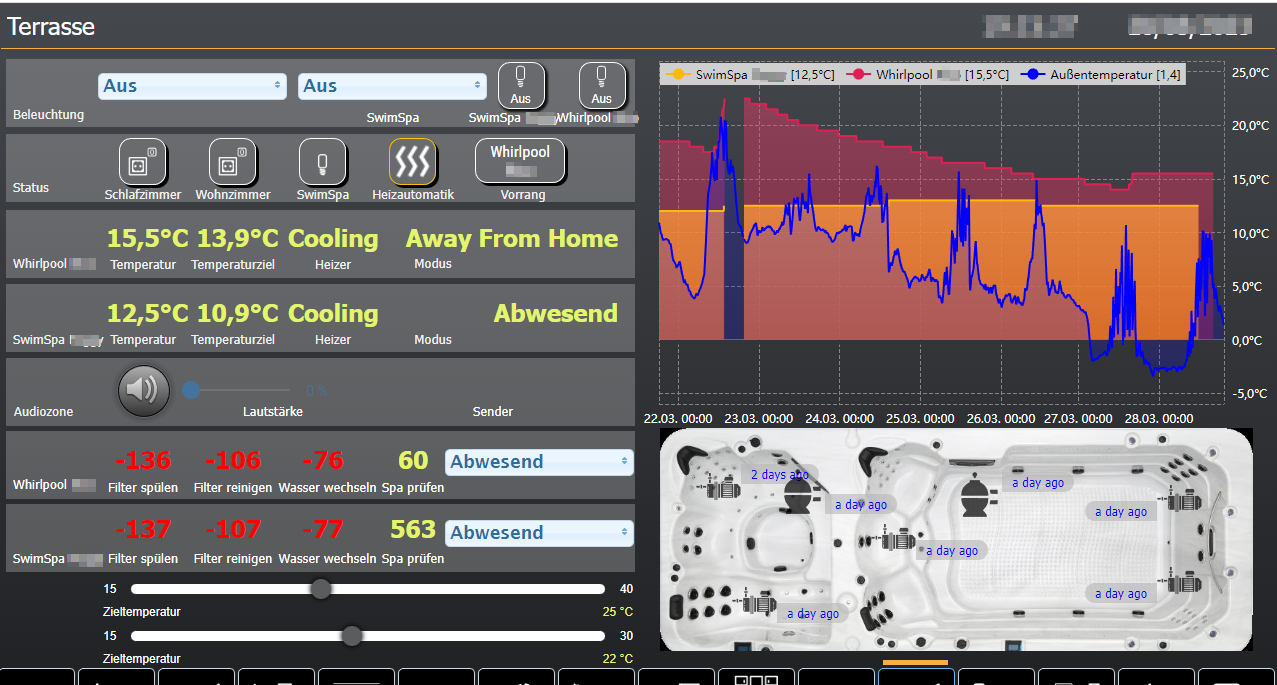
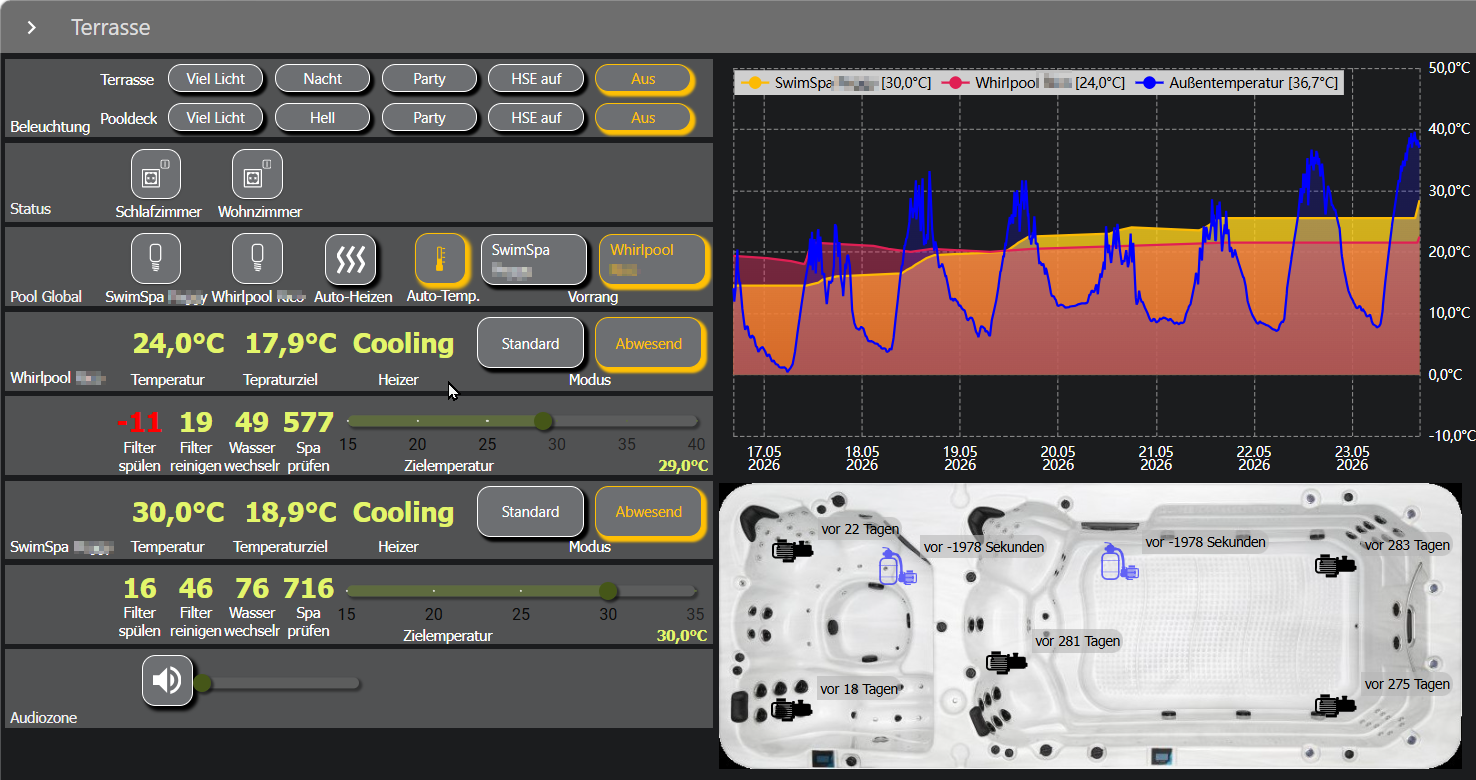
updated error handling in javascript files, modified detection of blower, updated documentation and added new images for visualization example

diff --git a/JavaScript/SpaUpdateConfig.js b/JavaScript/SpaUpdateConfig.js
@@ -1,9 +1,9 @@
 // Achtung dieses Script benötigt: SpaGlobal.js im Ordner global (Expert Mode!)
 // Es muss initial 1x aufgerufen werden, danach sollte es aller 6h laufen, es werden eher selten geänderte Konfigurationswerte aktualisiert
 
-schedule("0 */6 * * *", function () {
-    updateSpaConfig();
-});
+//schedule("0 */6 * * *", function () {
+//    updateSpaConfig();
+//});
 
 updateSpaConfig();
 
@@ -122,6 +122,8 @@ async function updateSpaConfig() {
                 await execPythonAsync(discoverCommand);
             }
         }
+    } catch(err) {
+        console.error('*** command failed with error code: ' + err.code + " - " + err.message);
     } finally {
         // signal that there is no longer a script is running
         setState(dpBasePath + '.scriptRunning', {val: false, ack: true});

diff --git a/JavaScript/global/SpaGlobal.js b/JavaScript/global/SpaGlobal.js
@@ -1,17 +1,14 @@
 // Pfade für die Datenpunkablage
 const BASE_ADAPTER = "javascript.0";
 const BASE_FOLDER = "Datenpunkte.SwimSpa";
-// const SPA_EXECUTEABLE = "python3"
-const SPA_EXECUTEABLE = "/home/tom/.pyenv/shims/python3"
-//const PY_SCRIPTS_FOLDER = "/SpaController"
-const PY_SCRIPTS_FOLDER = "/home/SwimSpa/Python"
+const SPA_EXECUTEABLE = "python3"
+const PY_SCRIPTS_FOLDER = "/SpaController"
 
 function execPythonAsync(command) {
     return new Promise((resolve, reject) => {
         exec(command, function (error, stdout, stderr) {
             //console.log('*** stdout: ' + stdout);
             if (error) {
-                console.error('*** command failed with error code: ' + error.code + " - " + error.message);
                 reject(error);
                 return;
             }

diff --git a/JavaScript/BlowerSwitch.js b/JavaScript/BlowerSwitch.js
@@ -62,6 +62,8 @@ async function switchBlower(obj) {
 
     try {
         await execPythonAsync(switchBlowerCommand);
+    } catch(err) {
+        console.error('*** command failed with error code: ' + err.code + " - " + err.message);
     } finally {
         // signal that there is no longer a script running
         setState(dpBasePath + '.scriptRunning', {val: false, ack: true});

diff --git a/JavaScript/LightToggle.js b/JavaScript/LightToggle.js
@@ -67,6 +67,8 @@ async function toggleLight(obj) {
 
     try {
         await execPythonAsync(toggleLightCommand);
+    } catch(err) {
+        console.error('*** command failed with error code: ' + err.code + " - " + err.message);
     } finally {
         // signal that there is no longer a script is running
         setState(dpBasePath + '.scriptRunning', {val: false, ack: true});

diff --git a/JavaScript/PumpSwitches.js b/JavaScript/PumpSwitches.js
@@ -69,6 +69,8 @@ async function switchPump(obj) {
 
     try {
         await execPythonAsync(switchPumpCommand);
+    } catch(err) {
+        console.error('*** command failed with error code: ' + err.code + " - " + err.message);
     } finally {
         // signal that there is no longer a script is running
         setState(dpBasePath + '.scriptRunning', {val: false, ack: true});

diff --git a/JavaScript/SpaUpdateValues.js b/JavaScript/SpaUpdateValues.js
@@ -80,6 +80,8 @@ async function updateSpaValues() {
 
     try {
         await execPythonAsync(updateCommand);
+    } catch(err) {
+        console.error('*** command failed with error code: ' + err.code + " - " + err.message);
     } finally {
         // signal that there is no longer a script is running
         setState(dpBasePath + '.scriptRunning', {val: false, ack: true});

diff --git a/JavaScript/SpaVariablen.js b/JavaScript/SpaVariablen.js
@@ -6,7 +6,7 @@
 //   waterfall: Wasserfall vorhanden (true/false)
 createDatapoints([
     { pumps: 3, blower: false, waterfall: false },   // 0: Pool
-    { pumps: 1, blower: true, waterfall: false }     // 1: Spa
+    { pumps: 3, blower: true, waterfall: false }     // 1: Spa
 ]);
 
 

diff --git a/JavaScript/TargetTemp.js b/JavaScript/TargetTemp.js
@@ -63,6 +63,8 @@ async function setTargetTemp(obj) {
 
     try {
         await execPythonAsync(targetTempCommand);
+    } catch(err) {
+        console.error('*** command failed with error code: ' + err.code + " - " + err.message);
     } finally {
         // signal that there is no longer a script is running
         setState(dpBasePath + '.scriptRunning', {val: false, ack: true});

diff --git a/JavaScript/WatercareMode.js b/JavaScript/WatercareMode.js
@@ -65,6 +65,8 @@ async function setWatercareMode(obj) {
 
     try {
         await execPythonAsync(watercareModeCommand);
+    } catch(err) {
+        console.error('*** command failed with error code: ' + err.code + " - " + err.message);
     } finally {
         // signal that there is no longer a script is running
         setState(dpBasePath + '.scriptRunning', {val: false, ack: true});

diff --git a/Python/spa_config.py b/Python/spa_config.py
@@ -16,7 +16,7 @@ class ExitCode(IntEnum):
     IOBROKER_RESPONSE_ERROR = 6
 
 
-VERSION = "0.3.5"
+VERSION = "0.3.6"
 print(f"{sys.argv[0]} Version: {VERSION}")
 
 # Anzahl Argumente prüfen
@@ -150,6 +150,9 @@ async def main() -> int:
                 sJson2Send = sJson2Send + "{}.{}.Pumpen.{}.Modi={}".format(IOB_DP_BASE_PATH, ioBrDeviceNum, pump.key, urllib.parse.quote(str(pump.modes))) + "&"
             #
             print(f"anzahl blowers: {len(spaman.facade.blowers)}")
+            for blower in spaman.facade.blowers:
+                print(f"blower key {blower.key}, name {blower.name}")
+                sJson2Send = sJson2Send + "{}.{}.Blower.{}.Name={}".format(IOB_DP_BASE_PATH, ioBrDeviceNum, blower.key, urllib.parse.quote(blower.name)) + "&"
             #
             print(f"anzahl lichter: {len(spaman.facade.lights)}")
             for light in spaman.facade.lights:

diff --git a/README.md b/README.md
@@ -1,17 +1,10 @@
 <!-- TOC depthfrom:2 -->
 
-Das ist ein Fork von https://github.com/rrov1/SwimSpa
-Wurde hier nur um 2 Features erweitert:
-- Manche gecko Whirlpools haben nicht nur Pumpen sondern auch ein Geblaese -> um Switch Blower Funktion erweitert, die auch von geckolib unterstützt wird
-- Möglichkeit bei der Steuerung von mehr als einem Pool, pro Pool eine unterschiedliche Anzahl von Pumpen und Gebläse zu konfigurieren
-
-Der Rest ist eine Kopie von rrov1
-  
 - [1. Funktionsumfang](#1-funktionsumfang)
 - [2. Installation/Update](#2-installationupdate)
     - [2.1. gazoodle/geckolib github](#21-gazoodlegeckolib-github)
     - [2.2. Python Skripte](#22-python-skripte)
-    - [2.3. Javascript Skripte für ioBroker](#23-javascript-skripte-f%C3%BCr-iobroker)
+    - [2.3. JavaScript Skripte für ioBroker](#23-javascript-skripte-f%C3%BCr-iobroker)
         - [2.3.1. Voraussetzungen](#231-voraussetzungen)
         - [2.3.2. Schritt 1: Skript SpaGlobal.js bereitstellen](#232-schritt-1-skript-spaglobaljs-bereitstellen)
         - [2.3.3. Schritt 2: Erstellen bzw. Aktualisieren der Datenpunkte](#233-schritt-2-erstellen-bzw-aktualisieren-der-datenpunkte)
@@ -31,9 +24,10 @@ Der Rest ist eine Kopie von rrov1
 
 * [X] Unterstützung mehrere Spa Controller
 * [X] Bereitstellen von Datenpunkten mit der Konfiguration des Spa Controllers
-* [X] Bereistellen von Datenpunkten mit aktuellen Laufzeitinformationen (z.B. Temperatur usw.)
+* [X] Bereitstellen von Datenpunkten mit aktuellen Laufzeitinformationen (z.B. Temperatur usw.)
 * [X] Schalten der Pumpen
 * [X] Schalten der Beleuchtung
+* [X] Schalten des Gebläses
 * [X] Einstellen der Zieltemperatur
 * [X] Einstellen des Wasserpflegemodus
 * [X] Erinnerungen
@@ -44,14 +38,14 @@ Der Rest ist eine Kopie von rrov1
 Hier auf Github werden 2 Arten von Skripten bereitgestellt:
 
 1. Python-Skripte im Ordner: [Pyhton](Python), über die das geckolib API angesprochen wird
-2. Javascript-Skripte im Ordner: [Javascript](JavaScript), welche im Javascript Adapter angelegt werden müssen
+2. JavaScript-Skripte im Ordner: [Javascript](JavaScript), welche im JavaScript Adapter angelegt werden müssen
 
 ### 2.1. gazoodle/geckolib (github)
 
 Quelle: [https://github.com/gazoodle/geckolib](https://github.com/gazoodle/geckolib)
 
 Voraussetzung zur Installation: **Python3 mind. v3.13** & **Pip** (am besten unter einem Linux, nur Versionen die unter [Support](https://devguide.python.org/versions/) sind)<br>
-**Wichtig:** Die geckolib ab v1.0.0 benötigt Python 3.13 (Abhängigkeit). Unbedingt prüfen, denn diese Version enthält Änderungen die nicht mit vorherigen Versionen kompatibel sind. Diese Scripte unterstützen **nur** noch geckolib ab v1.0.0 und damit muss Python 3.13 installiert sein.
+**Wichtig:** Die geckolib ab v1.0.0 benötigt Python 3.13 (Abhängigkeit). Unbedingt prüfen, denn diese Version enthält Änderungen die nicht mit vorherigen Versionen kompatibel sind. Diese Skripte unterstützen **nur** noch geckolib ab v1.0.0 und damit muss Python 3.13 installiert sein.
 
 Installation: `sudo pip install geckolib`<br>
 Update: `sudo pip install geckolib --upgrade`<br>
@@ -64,7 +58,7 @@ Für die Python-Skripte sind noch folgende Bibliotheken bereitzustellen:
 
 * requests: `sudo pip3 install requests`
 
-Alle Python Skripte aus dem Repository (Ordner: [Python](Python)) müssen in einem Verzeichnis bereitgestellt werden. Im Beispiel nutzen wir jetzt direkt einen Order unterhalb `/`, clonen das Github Repo und kompieren die Dateien aus dem Ordner Python ans eigentliche Ziel. Danach wird noch der owner angepasst.
+Alle Python Skripte aus dem Repository (Ordner: [Python](Python)) müssen in einem Verzeichnis bereitgestellt werden. Im Beispiel nutzen wir jetzt direkt einen Order unterhalb `/`, clonen das Github Repo und kopieren die Dateien aus dem Ordner Python ans eigentliche Ziel. Danach wird noch der owner angepasst.
 
 ```
 ~$ sudo mkdir /SpaController
@@ -90,17 +84,17 @@ drwxr-xr-x 23 root     root     4096 Apr  2 11:37 ..
 -rw-r--r--  1 iobroker iobroker 7566 Apr  2 11:51 spa_updateBulk.py
 ```
 
-Die Python-Skripte werden von den Javascript-Skripten aus aufgerufen mit den nötigen Parametern.<br>
+Die Python-Skripte werden von den JavaScript-Skripten aus aufgerufen mit den nötigen Parametern.<br>
 
 **Wichtig:** ioBroker benötigt Zugriff auf die Python-Skripte, der Ablageort kann z.B. auch `/opt/iobroker/node_modules/iobroker.javascript` sein, das könnte allerdings mal Probleme mit Adapter oder ioBroker Updates geben.
 
-### 2.3. Javascript Skripte für ioBroker
+### 2.3. JavaScript Skripte für ioBroker
 
 #### 2.3.1. Voraussetzungen
 
 * Adapter: "Simple RESTful API" installiert und eine konfigurierte Instanz am laufen (bitte prüfen, dass die IP in der Instanzkonfiguration passend eingestellt ist, getestet sind die Skripte mit IPv4, egal ob 0.0.0.0 oder die IP des Netzwerkadapters)
-* Adapter: Javascript/Blockly installiert und eine Instanz am laufen
-* Konfiguration des Javascript Adapters anpassen:
+* Adapter: JavaScript/Blockly installiert und eine Instanz am laufen
+* Konfiguration des JavaScript Adapters anpassen:
   * Option: Enable Command "setObject" - ist aktiviert
   * Option: Enable Command "exec" - ist aktiviert
 
@@ -112,25 +106,37 @@ Die Python-Skripte werden von den Javascript-Skripten aus aufgerufen mit den nö
 
 | **Variable**        | **Verwendungszweck/Wert**                                                                                                    |
 | --------------------- | ------------------------------------------------------------------------------------------------------------------------------ |
-| `BASE_ADAPTER`      | Basispfad zum Adapter unter dem die Datenpunkte angelegt werden. Standard ist der erste Javascript Adapter: "javascript.0".  |
+| `BASE_ADAPTER`      | Basispfad zum Adapter unter dem die Datenpunkte angelegt werden. Standard ist der erste JavaScript Adapter: "javascript.0".  |
 | `BASE_FOLDER`       | Basispfad unter dem die Datenpunkte angelegt werden sollen, Standardwert ist: "Datenpunkte.SwimSpa"                          |
 | `SPA_EXECUTEABLE`   | Auszuführendes Programm, Standard ist "python3"                                                                             |
-| `PY_SCRIPTS_FOLDER` | Verzeichnis in dem sich die Python-Skripte befinden. Standard ist`/SpaController` damit das mit der Anleitung zusammenpasst. |
+| `PY_SCRIPTS_FOLDER` | Verzeichnis in dem sich die Python-Skripte befinden. Standard ist`/SpaController`, damit das mit der Anleitung zusammenpasst. |
 
 #### 2.3.3. Schritt 2: Erstellen bzw. Aktualisieren der Datenpunkte
 
-* Neuen Ordner `Spa` im Javascript Adapter anlegen um alle folgenden Skripte an einen Ort zu abzulegen
-* Neues Skript `SpaVariablen` in diesem Ordner anlegen und den Inahlt von [SpaVariablen.js](JavaScript/SpaVariablen.js) einspielen
-* den Aufruf der Funktion createDatapoints() anpassen:
-
-
+* Neuen Ordner `Spa` im JavaScript Adapter anlegen, um alle folgenden Skripte an einen Ort zu abzulegen
+* Neues Skript `SpaVariablen` in diesem Ordner anlegen und den Inhalt von [SpaVariablen.js](JavaScript/SpaVariablen.js) einspielen
+* den Aufruf der Funktion createDatapoints() anpassen, welcher im Standard zur Steuerung von 2 Spa Controllern ausgelegt ist:
+  ```
+  createDatapoints([
+      { pumps: 3, blower: false, waterfall: false },   // 0: Pool
+      { pumps: 3, blower: true, waterfall: false }     // 1: Spa
+  ]);
+  ```
+* Die Funktion nimmt als Parameter ein Array entgegen, welches pro Spa Controller eine individuelle Konfiguration der Anzahl von Pumpen zulässt, sowie Gebläse und Wasserfall.
+* Beschreibung der Parameter pro Spa Controller
 | **Parameter** | **Wert**                                       |
 | --------------- | ------------------------------------------------ |
 | 1             | Anzahl Spa Controller im Netz, typ. Weise: 1   |
 | 2             | Anzahl Pumpen pro Spa Controller, typ. Weise 3 |
-| 3             | Datenpukte für Wasserfall mit anlegen         |
+| 3             | Datenpunkte für Wasserfall mit anlegen         |
+* Im einfachsten Fall (1 Spa Controller, 3 Pumpen) muss folgender Quelltext genutzt werden:
+  ```
+  createDatapoints([
+      { pumps: 3, blower: false, waterfall: false }   // 0: Spa
+  ]);
+  ```
 
-* Nach dem Speichern, das Script 1x ausführen
+* Nach dem Speichern, das Skript 1x ausführen
 * Prüfen ob die Datenpunkte vorhanden sind, der Objektbau sollte so aussehen:
   ![Datenpunkte im Objektbaum](doc/img/Datenpunkte_im_Objektbaum.png)
 
@@ -139,13 +145,13 @@ Die Python-Skripte werden von den Javascript-Skripten aus aufgerufen mit den nö
 Konfigurationswerte, die sich seltener ändern werden alle 6h von `SpaUpdateConfig` aktualisiert:
 
 * Neues Skript: `SpaUpdateConfig` im Ordner `Spa` erstellen und den Inhalt von [SpaUpdateConfig.js](JavaScript/SpaUpdateConfig.js) einfügen
-* Die Javascript Funktion: `updateSpaConfig()` wird beim speichern 1x ausgeführt, danach aller 6h.
-* Jetzt prüfen ob die Datenpunkte die eher statische Konfigurationswerte darstellen, wie (z.B.: Temepratureinheit, ID, U_ID) aktualisiert worden sind
+* Die JavaScript Funktion: `updateSpaConfig()` wird beim speichern 1x ausgeführt, danach aller 6h.
+* Jetzt prüfen ob die Datenpunkte die eher statische Konfigurationswerte darstellen, wie (z.B.: Temperatureinheit, ID, U_ID) aktualisiert worden sind
 
 <br> 
 Werte die sich häufig ändern werden minütlich von `SpaUpdateValues` aktualisiert:
 
-* Neues Skcript: `SpaUpdateValues` im Ordner `Spa` erstellen und den Inhalt von [SpaUpdateValues.js](JavaScript/SpaUpdateValues.js) einfügen
+* Neues Skript: `SpaUpdateValues` im Ordner `Spa` erstellen und den Inhalt von [SpaUpdateValues.js](JavaScript/SpaUpdateValues.js) einfügen
 * Das Skript wird minütlich aufgerufen und aktualisiert alle anderen Werte wie z.B. die Wassertemperaturen, Pumpenstatus, Licht usw.
 * Jetzt überprüfen, on die Wassertemperatur aktualisiert wurde
 
@@ -155,10 +161,11 @@ Werte die sich häufig ändern werden minütlich von `SpaUpdateValues` aktualisi
 * Skripte bereitstellen:
 
 
-| **Zweck**                                   | **Javascript**                                                                       | **Python Skript**                                                               |
+| **Zweck**                                   | **JavaScript**                                                                       | **Python Skript**                                                               |
 | --------------------------------------------- | -------------------------------------------------------------------------------------- | --------------------------------------------------------------------------------- |
 | Schalten der Pumpen                         | `PumpSwitches` (Datei: [PumpSwitches.js](JavaScript/PumpSwitches.js))                | `spa_switchPump.py clientId restApiUrl spaId spaIP pumpId newPumpState pumpChannel`   |
-| Schalten der Beleuchtung                    | `LightToggle` (Datei: [LightToggle.js](JavaScript/LightToggle.js))                   | `spa_toggleLight.py clientId restApiUrl spaId spaIP lightKey lightChannel`            |
+| Schalten der Beleuchtung                    | `LightToggle` (Datei: [LightToggle.js](JavaScript/LightToggle.js))                   | `spa_toggleLight.py clientId restApiUrl spaId spaIP lightKey lightChannel lightChannel`            |
+| Schalten des Gebläse                        | `BlowerToggle` (Datei: [BlowerSwitch.js](JavaScript/BlowerSwitch.js))                   | `spa_switchBlower.py clientId restApiUrl spaId spaIP blowerKey newBlowerState blowerChannel`            |
 | Setzen der Zieltemperatur                   | `TargetTemp` (Datei: [TargetTemp.js](JavaScript/TargetTemp.js))                      | `spa_setTargetTemp.py clientId restApiUrl spaId spaIP targetTemp targetTempDatapoint` |
 | Setzen des Wasserpflegemodus                | `WatercareMode` (Datei: [WatercareMode.js](JavaScript/WatercareMode.js))             | `spa_setWatercareMode.py clientId restApiUrl spaId spaIP waterCareModeIdx devicePath`          |
 | Automaische Nachführung der Zieltemperatur | `SpaMoveTargetTemp` (Datei: [SpaMoveTargetTemp.js](JavaScript/SpaMoveTargetTemp.js)) | nicht benötigt                                                                 |
@@ -169,7 +176,7 @@ Werte die sich häufig ändern werden minütlich von `SpaUpdateValues` aktualisi
 
 ### 3.1. SpaUpdateValues.js/spa_updateBulk.py
 
-Diese Skripte werden jede Minute gestartet (Zeile 4 in `SpaUpdateValues.js`) um Änderungen von Werten wie z.B. der Wassertemperatur, Pumpenstatus usw. vom SpaController auszulesen. Von den 1.440 Aufrufen pro Tag schlagen bei mir lt. Protokoll: ~50 Aufrufe fehl. Eine Quote so in der Höhe, vielleicht bis zu 200 je Tag, kann als normal betrachtet werden. Das hängt u.a. damit zusammen wie die geckolib mit dem SpaController kommuniziert, dann natürlich das minütliche pollen, vielleicht noch die App die parallel was tut, leider jenseits von perfekt von der Implementierung her :-(.
+Diese Skripte werden jede Minute gestartet (Zeile 4 in `SpaUpdateValues.js`), um Änderungen von Werten wie z.B. der Wassertemperatur, Pumpenstatus usw. vom SpaController auszulesen. Von den 1.440 Aufrufen pro Tag schlagen bei mir lt. Protokoll: ~50 Aufrufe fehl. Eine Quote so in der Höhe, vielleicht bis zu 200 je Tag, kann als normal betrachtet werden. Das hängt u.a. damit zusammen wie die geckolib mit dem SpaController kommuniziert, dann natürlich das minütliche Pollen, vielleicht noch die App die parallel was tut, leider jenseits von perfekt von der Implementierung her :-(.
 
 ### 3.2. Kein SpaController gefunden, wenn ioBroker im Docker Container läuft
 
@@ -178,7 +185,7 @@ Dieser Datenpunkt kann auch verwendet werden, wenn sich die SpaController in ein
 
 ### 3.3. SpaController Überwachung/Steuerung temporär deaktivieren
 
-Manchmal ist es notwendig einen SpaController temporär aus der Überwachung bzw. Steuerung durch die Skripte auszulassen. Um nicht alle Skripte manuell zu deaktivieren gibt es einen Datenpunkt: `javascript.0.Datenpunkte.SwimSpa.x.ControllerEnabled` pro SpaController. Dieser ist stnadardmäßig auf `true` und kann bei Bedarf auf `false`gesetzt werden.
+Manchmal ist es notwendig einen SpaController temporär aus der Überwachung bzw. Steuerung durch die Skripte auszulassen. Um nicht alle Skripte manuell zu deaktivieren gibt es einen Datenpunkt: `javascript.0.Datenpunkte.SwimSpa.x.ControllerEnabled` pro SpaController. Dieser ist standardmäßig auf `true` und kann bei Bedarf auf `false`gesetzt werden.
 
 **Hinweis:** Zusätzlich sollte noch die Steuerung in der Visualisierung deaktiviert werden.
 
@@ -194,15 +201,15 @@ Manchmal ist es notwendig einen SpaController temporär aus der Überwachung bzw
 * [X] Statt cron soll der regelmäßige Aufruf mit ioBroker Schedule möglich sein
 * [X] Status der Erreichbarkeit des Spa in Datenpunkt darstellen (Ebene Netzwerk, Online/Offline), sowie Fehler bei letzten Kommando
 * [ ] Richtiges Discovery der Eigenschaften des Spa Controllers anstatt feste Anlage der Datenpunkte via Skript
-* [X] Das setzen der Zieltemperatur ist empfindlich ggü. mehreren schnell auseinanderfolgenden Wertänderungen. Momentan am besten einen Slider nutzen, der eine Funktion "Update value on release" untersützt, so dass der DP nur einmal geändert wird. Das Script braucht immer ein paar Sekunden bis der Wert im Hintergrund gesetzt wurde.
+* [X] Das setzen der Zieltemperatur ist empfindlich ggü. mehreren schnell auseinanderfolgenden Wertänderungen. Momentan am besten einen Slider nutzen, der eine Funktion "Update value on release" unterstützt, so dass der DP nur einmal geändert wird. Das Skript braucht immer ein paar Sekunden bis der Wert im Hintergrund gesetzt wurde.
 * [X] Aktuell funktionieren die Erinnerungen nicht, da die geckolib keine Werte zurückgibt
 * [X] Das Auslösen einer Aktion (Licht an/aus, Pumpe an/aus) braucht ca. 15 Sekunden bis es umgesetzt ist (liegt am Verbindungsaufbau der recht lange dauert bei der geckolib)
 * [X] Pfad zu den Python Skripten global konfigurierbar machen und die Anleitung dahingehend anpassen (auch Skriptbereitstellung)
 * [ ] Struktur der Datenpunkte noch mal etwas straffen:
   * [X] `javascript.0.Datenpunkte.SwimSpa.x.WasserpflegeIndex` -> entfällt zugunsten `WasserpflegeSwitch`
   * [ ] ...
-* [ ] Python Scripte melden keine Statustexte mehr in Datenpunkte:
+* [ ] Python Skripte melden keine Statustexte mehr in Datenpunkte:
   * [X] `javascript.0.Datenpunkte.SwimSpa.x.Wasserpflege` -> entfällt zugunsten`WasserpflegeSwitch`, den zugehörigen z.B. deutschen Statustext kann ein Widget selbst darstellen (z.B. vis basic - ValueList Text oder eine Combobox)
   * [ ] ...
-* [ ] Statussensor (`javascript.0.Datenpunkte.SwimSpa.x.Sensoren.Status.State`) Funktion herstellen (funktioniert momentant überhaupt nicht bzw. zeigt immer: Connected)
+* [ ] Statussensor (`javascript.0.Datenpunkte.SwimSpa.x.Sensoren.Status.State`) Funktion herstellen (funktioniert momentan überhaupt nicht bzw. zeigt immer: Connected)
 * [X] Nutzbarkeit im Docker Container herstellen (durch die besonderen Netzwerksituation geht Discovery nicht und auch die Steuerung)

diff --git a/doc/visualization.md b/doc/visualization.md
@@ -2,13 +2,13 @@
 <!-- TOC -->
 
 - [Inhalt](#inhalt)
-- [Beispiel für eine Visualisierung](#beispiel-für-eine-visualisierung)
+- [Beispiel für eine Visualisierung](#beispiel-f%C3%BCr-eine-visualisierung)
 - [Elemente zu Steuerung eines Spa Controllers](#elemente-zu-steuerung-eines-spa-controllers)
-  - [Temperaturen und sonstige Werte](#temperaturen-und-sonstige-werte)
-  - [Auswahl des Wasserpflegemodus](#auswahl-des-wasserpflegemodus)
-  - [Zieltemperatur](#zieltemperatur)
-  - [Schalten von Licht](#schalten-von-licht)
-  - [Pumpen- oder Filterstatus](#pumpen--oder-filterstatus)
+    - [1. Temperaturen und sonstige Werte](#1-temperaturen-und-sonstige-werte)
+    - [2. Auswahl des Wasserpflegemodus](#2-auswahl-des-wasserpflegemodus)
+    - [3. Zieltemperatur](#3-zieltemperatur)
+    - [4. Schalten von Licht](#4-schalten-von-licht)
+    - [5. Pumpen- oder Filterstatus](#5-pumpen--oder-filterstatus)
 
 <!-- /TOC -->
 
@@ -30,19 +30,19 @@ Konfiguration: <br>
 ![Basic Number Widget Attributes](img/basic-number_attributes.png)<br>
 
 ## Auswahl des Wasserpflegemodus
-jqui - Select ValueList:<br>
-![jqui - Select ValueList](img/jqui-Select_ValueList.png)<br>
+inventwo design: Universal (Schalter, Taster, Nav & mehr):<br>
+![inventwo design Universal](img/Modus_Auswahl.png)<br>
 
 Konfiguration: <br>
-![jqui - Select ValueList Attributes](img/jqui-Select_ValueList_attributes.png)<br>
+![inventwo design Universal Attribute](img/Modus_Auswahl_Attribute.png)<br>
 
 ## Zieltemperatur
-vis-inventwo - Simple Slider: <br>
-![vis-inventwo - Simple Slider](img/vis-inventwo-Simple_Slider.png)<br>
+inventwo design: Schieberegler: <br>
+![inventwo_design_Schieberegler](img/inventwo_design_Schieberegler.png)<br>
 
 Konfiguration: <br>
 **Wichtig:** Der Slider darf den Wert erst am Ende setzen (Option: "Update value on release" unbedingt aktivieren!)
-![vis-inventwo - Simple Slider Attributes](img/vis-inventwo-Simple_Slider_attributes.png)
+![inventwo_design_Schieberegler_Attribute](img/inventwo_design_Schieberegler_Attribute.png)
 
 ## Schalten von Licht
 vis-inventwo - Universal Switch: <br>